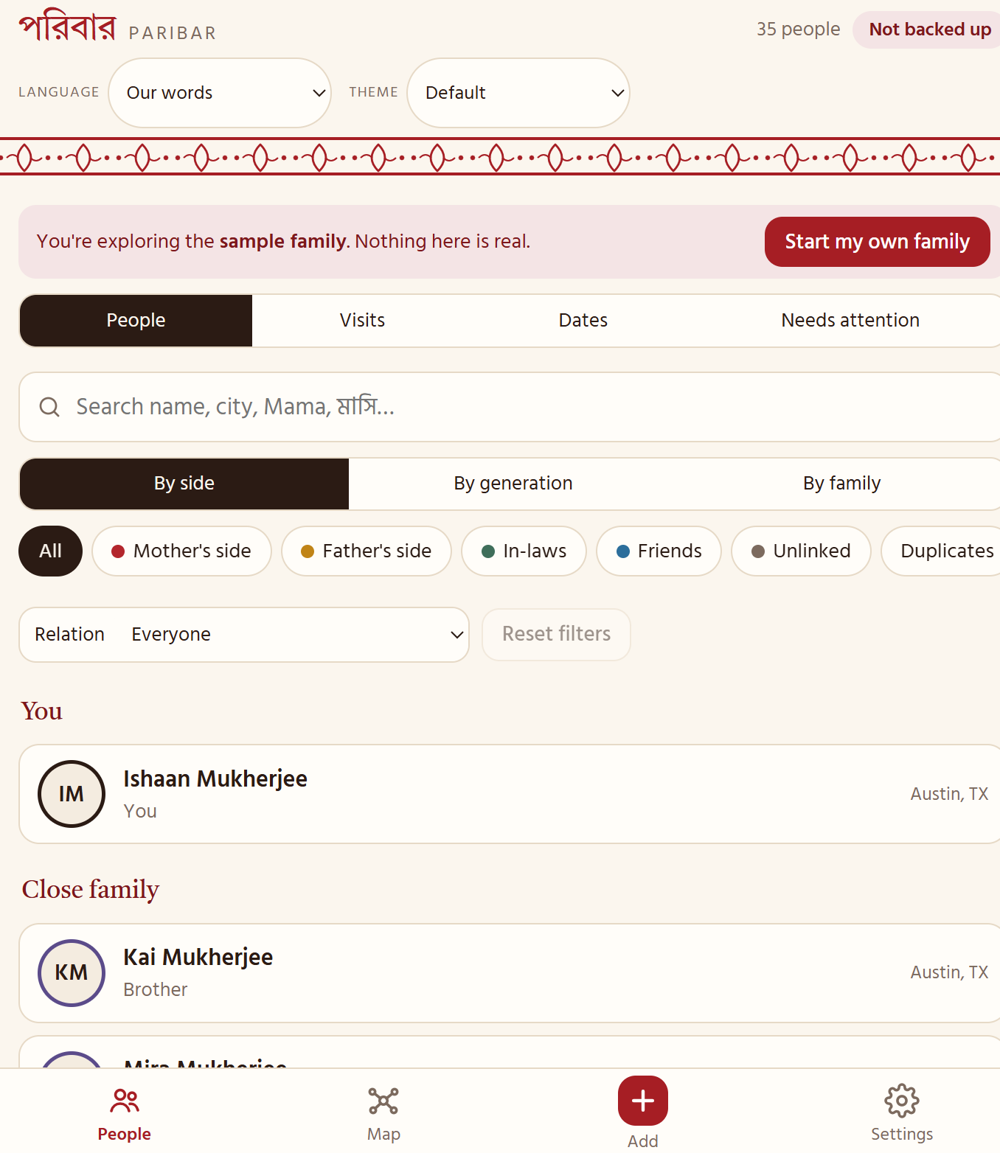
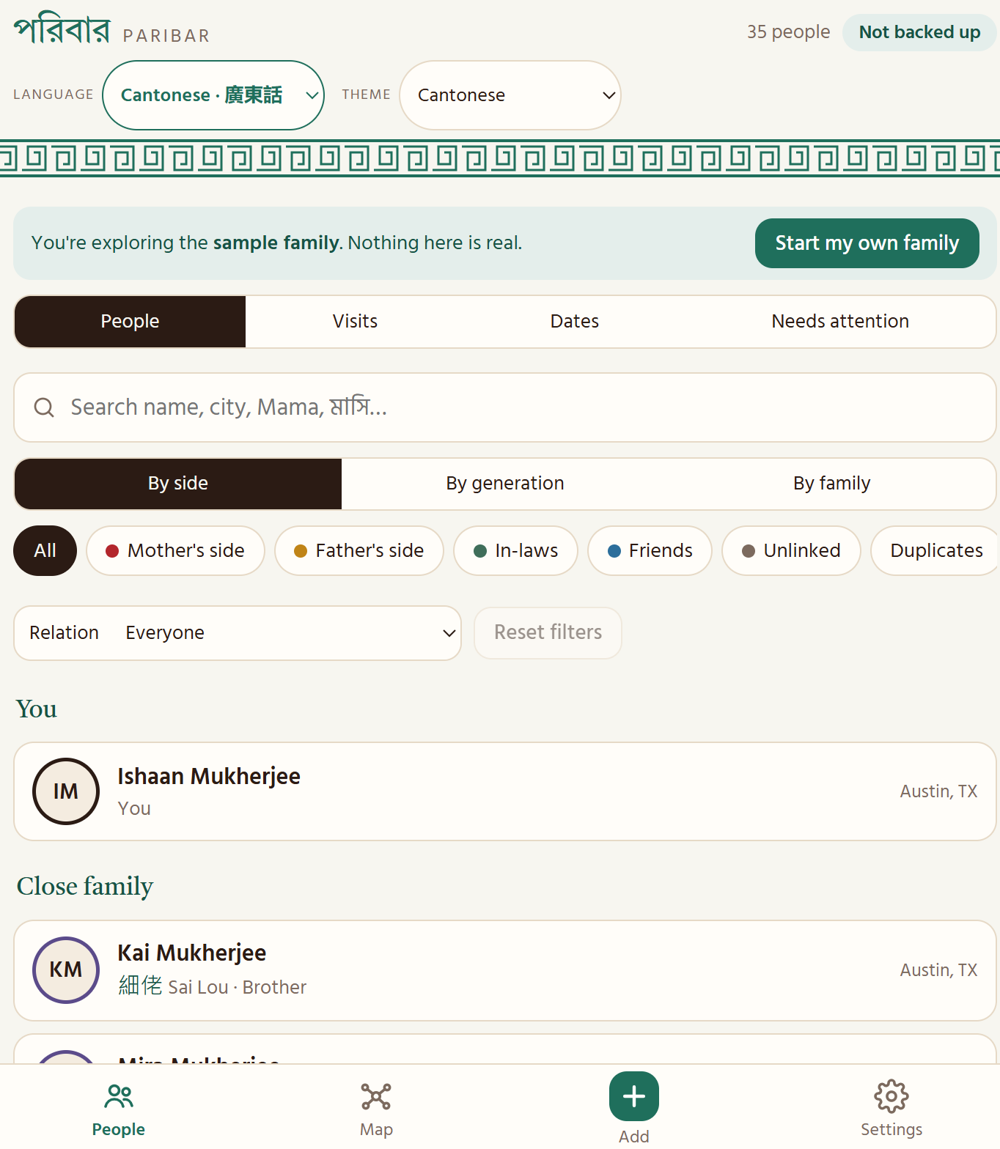
Landing: fake-name paper drawing, Cantonese People screenshot
- Hand-drawn style family tree with only the sample family's made-up names
- People tab screenshot swapped for the Cantonese language and theme

diff --git a/site/index.html b/site/index.html
@@ -50,6 +50,8 @@
     .shot figcaption { margin-top: 10px; color: var(--muted); font-size: .96rem; }
     .shot figcaption b { display: block; color: var(--ink); }
     .people-shot { max-width: 420px; margin: 0 auto 14px; }
+    .drawing-shot { margin: 14px 0 0; }
+    .drawing-shot img { max-height: none; object-fit: contain; }
     .body { margin: 0; max-width: 38em; }
     .story { background: var(--surface); border: 1px solid var(--line); border-left: 4px solid var(--red); border-radius: 14px; padding: 6px 18px; }
     .story p { margin: 12px 0; }
@@ -117,13 +119,17 @@
       <div class="card"><b>Listens to the room</b><p>Put the phone in the middle of the room and let everyone talk, in any mix of languages. The AI transcribes it and fills in what the family words already say.</p></div>
       <div class="card"><b>Asks, doesn't guess</b><p>When something's unclear, like which uncle, it asks. Then it hands you one file to import.</p></div>
     </div>
+    <figure class="card shot drawing-shot">
+      <a href="images/paper-drawing.jpg"><img src="images/paper-drawing.jpg" width="1380" height="840" loading="lazy" alt="A hand-drawn family tree on paper, in blue pen, with the sample family's names and a few crossed-out notes" /></a>
+      <figcaption><b>Chicken scratch is plenty</b>A drawing like this (sample family, made-up names) is all the AI needs. Snap a photo, and it turns it into the file Paribar imports.</figcaption>
+    </figure>
     <div class="tip"><b>Hot tip: make it a show.</b> Download the spreadsheet from Paribar and give it, with a few family photos, to an AI that makes pictures or video. Ask for a family tree picture or a short video in the style of your favorite show, movie or book. Kids love it.</div>
 
     <h2>Stay in touch</h2>
     <p class="body">Paribar keeps everyone's details in one place, and one tap does the rest:</p>
     <figure class="card shot people-shot">
-      <a href="images/people.png"><img src="images/people.png" width="1000" height="1153" loading="lazy" alt="The People tab with the sample family, grouped by side, with Language and Theme menus at the top" /></a>
-      <figcaption><b>Everyone in one place</b>Group by side, generation or family, search in any language, and tap a name for a bigger photo, Call, Text, Email or Map.</figcaption>
+      <a href="images/people.png"><img src="images/people.png" width="1000" height="1149" loading="lazy" alt="The People tab with the sample family in the Cantonese language and theme: Kai shows as 細佬 Sai Lou, little brother" /></a>
+      <figcaption><b>Everyone in one place, in your family's words</b>Here in Cantonese: Kai is 細佬 Sai Lou, little brother. Group by side, generation or family, and tap a name for a bigger photo, Call, Text, Email or Map.</figcaption>
     </figure>
     <div class="grid">
       <div class="card"><b>Happy birthday</b><p>The Dates tab lists upcoming birthdays and anniversaries. Send wishes opens WhatsApp with a message in their family's language, ready to send.</p></div>

diff --git a/README.md b/README.md
@@ -38,6 +38,8 @@ flowchart TD
   X --> F["Paribar draws the<br/>tree and circles"]
 ```
 
+![A hand-drawn family tree in blue pen with the sample family's made-up names](docs/images/paper-drawing.jpg)
+
 - We drew the family out on paper and snapped a photo, then put a phone in the middle of the room and just talked.
 - An AI read the drawing and the conversation and turned them into data. I imported that, and Paribar built the tree and the circles. The AI only saves the typing; you can always add people by hand.
 - The family words fill in a lot on their own: a Mashi is your mother's sister, a Jethu your father's older brother.
@@ -51,7 +53,7 @@ With the holidays here and families getting together, I hope you get to have the
 | ![Family circles map of the sample family, rings around Ishaan, friends on dashed blue lines](docs/images/map-circles.png) | ![Generations tree of the sample family, one column per generation, friends in their own band](docs/images/map-generations.png) |
 | You're in the middle; each ring is one more step away. | One column per generation, couples side by side, friends in their own band. |
 
-<img src="docs/images/people.png" width="360" alt="The People tab with the sample family grouped by side" />
+<img src="docs/images/people.png" width="360" alt="The People tab with the sample family in Cantonese: Kai shows as 細佬 Sai Lou, little brother" />
 
 **Friends can be family too.** Add the neighbor who's practically an uncle, Mom's best friend the kids call Auntie, a colleague or a classmate. They appear on both maps, linked through whoever they know, and their families can join too.
 
